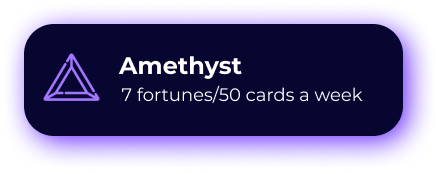
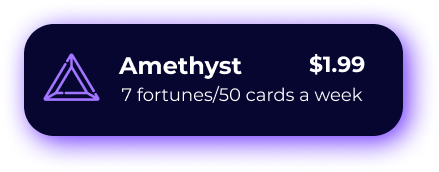
progress on subscription page

Changed region(s): [[0.6811, 0.3198, 0.8292, 0.436]]

diff --git a/App.js b/App.js
@@ -39,6 +39,8 @@ import sub2 from './assets/FortuneCoffeePNGassets/subscription2.png';
 import sub3 from './assets/FortuneCoffeePNGassets/subscription3.png';
 import sub4 from './assets/FortuneCoffeePNGassets/subscription4.png';
 import subscriptionDescription from './assets/FortuneCoffeePNGassets/subscriptionDescription.png';
+import subBackgorund1 from './assets/FortuneCoffeePNGassets/Vector.png';
+import subBackgorund2 from './assets/FortuneCoffeePNGassets/Vector-3.png';
 
 // Fortune Page //
 import Modal from 'react-native-modal';
@@ -254,7 +256,36 @@ const styles = StyleSheet.create({
     justifyContent: "center",
     marginHorizontal: 12,
     marginBottom: 450
-  }
+  },
+  subBackgroundImage: {
+    flex: 1,
+    resizeMode: "cover",
+    justifyContent: "center",
+    padding: 2
+  },
+  subButton1: {
+    width: 390,
+    height: 110,
+    borderRadius: 30,
+    marginHorizontal: 1,
+    marginTop: 30
+  },
+  subButton2: {
+    width: 390,
+    height: 110,
+  },
+  ellipse3: {
+    position: 'absolute',
+    bottom: -10,
+    left: 0,
+    marginBottom: 20
+  },
+  ellipse4: {
+    position: 'absolute',
+    bottom: -10,
+    left: 0,
+    marginBottom: 20
+  },
 });
 
 ////////////////////
@@ -346,14 +377,14 @@ function HomeScreen({navigation}) {
       <Image source={Ellipse1} style={styles.ellipse1} />
       <Image source={Ellipse2} style={styles.ellipse2} />
       <TouchableOpacity onPress={() => navigation.navigate('Favorites')} style={styles.favIcon}>
-          <Image source={Favorites} />
-        </TouchableOpacity>
+        <Image source={Favorites} />
+      </TouchableOpacity>
       <TouchableOpacity onPress={() => navigation.navigate('Home')} style={styles.homeIcon}>
-          <Image source={Home} />
-        </TouchableOpacity>
+        <Image source={Home} />
+      </TouchableOpacity>
       <TouchableOpacity onPress={() => navigation.navigate('Shop')} style={styles.shopIcon}>
-          <Image source={Shop} />
-        </TouchableOpacity>
+        <Image source={Shop} />
+      </TouchableOpacity>
     </View>
   );
 }
@@ -368,19 +399,33 @@ function FavoritesScreen() {
 
 function SubscriptionScreen() {
   return (
-    <View style={{ flex: 1, alignItems: 'center', justifyContent: 'center' }}>
-      <TouchableOpacity>
-        <Image source={sub1} />
-      </TouchableOpacity>
-      <TouchableOpacity>
-       <Image source={sub2} />
-      </TouchableOpacity>
-      <TouchableOpacity>
-        <Image source={sub3} />
-      </TouchableOpacity>
-      <TouchableOpacity>
-      <Image source={sub4} />
-      </TouchableOpacity>
+    <View style={styles.mainContainer}>
+      {/*<ImageBackground source={subBackgorund1} style={styles.subBackgroundImage}>*/}
+        <Image source={subscriptionDescription} style={{marginTop: 60}}/>
+        <TouchableOpacity>
+          <Image source={sub1} style={styles.subButton1}/>
+        </TouchableOpacity>
+        <TouchableOpacity>
+        <Image source={sub2} style={styles.subButton2} />
+        </TouchableOpacity>
+        <TouchableOpacity>
+          <Image source={sub3} style={styles.subButton2}/>
+        </TouchableOpacity>
+        <TouchableOpacity>
+          <Image source={sub4} style={styles.subButton2}/>
+        </TouchableOpacity>
+        <Image source={Ellipse1} style={styles.ellipse3} />
+        <Image source={Ellipse2} style={styles.ellipse4} />
+        <TouchableOpacity onPress={() => navigation.navigate('Favorites')} style={{bottom: -94, left:-130}}>
+          <Image source={Favorites} />
+        </TouchableOpacity>
+        <TouchableOpacity onPress={() => navigation.navigate('Home')} style={{top: -20, left: -0}}>
+          <Image source={Home} />
+        </TouchableOpacity>
+        <TouchableOpacity onPress={() => navigation.navigate('Shop')} style={{top: -20,right: -130}}>
+          <Image source={Shop} />
+        </TouchableOpacity>
+      {/*</ImageBackground>*/}
     </View>
   )
 }
